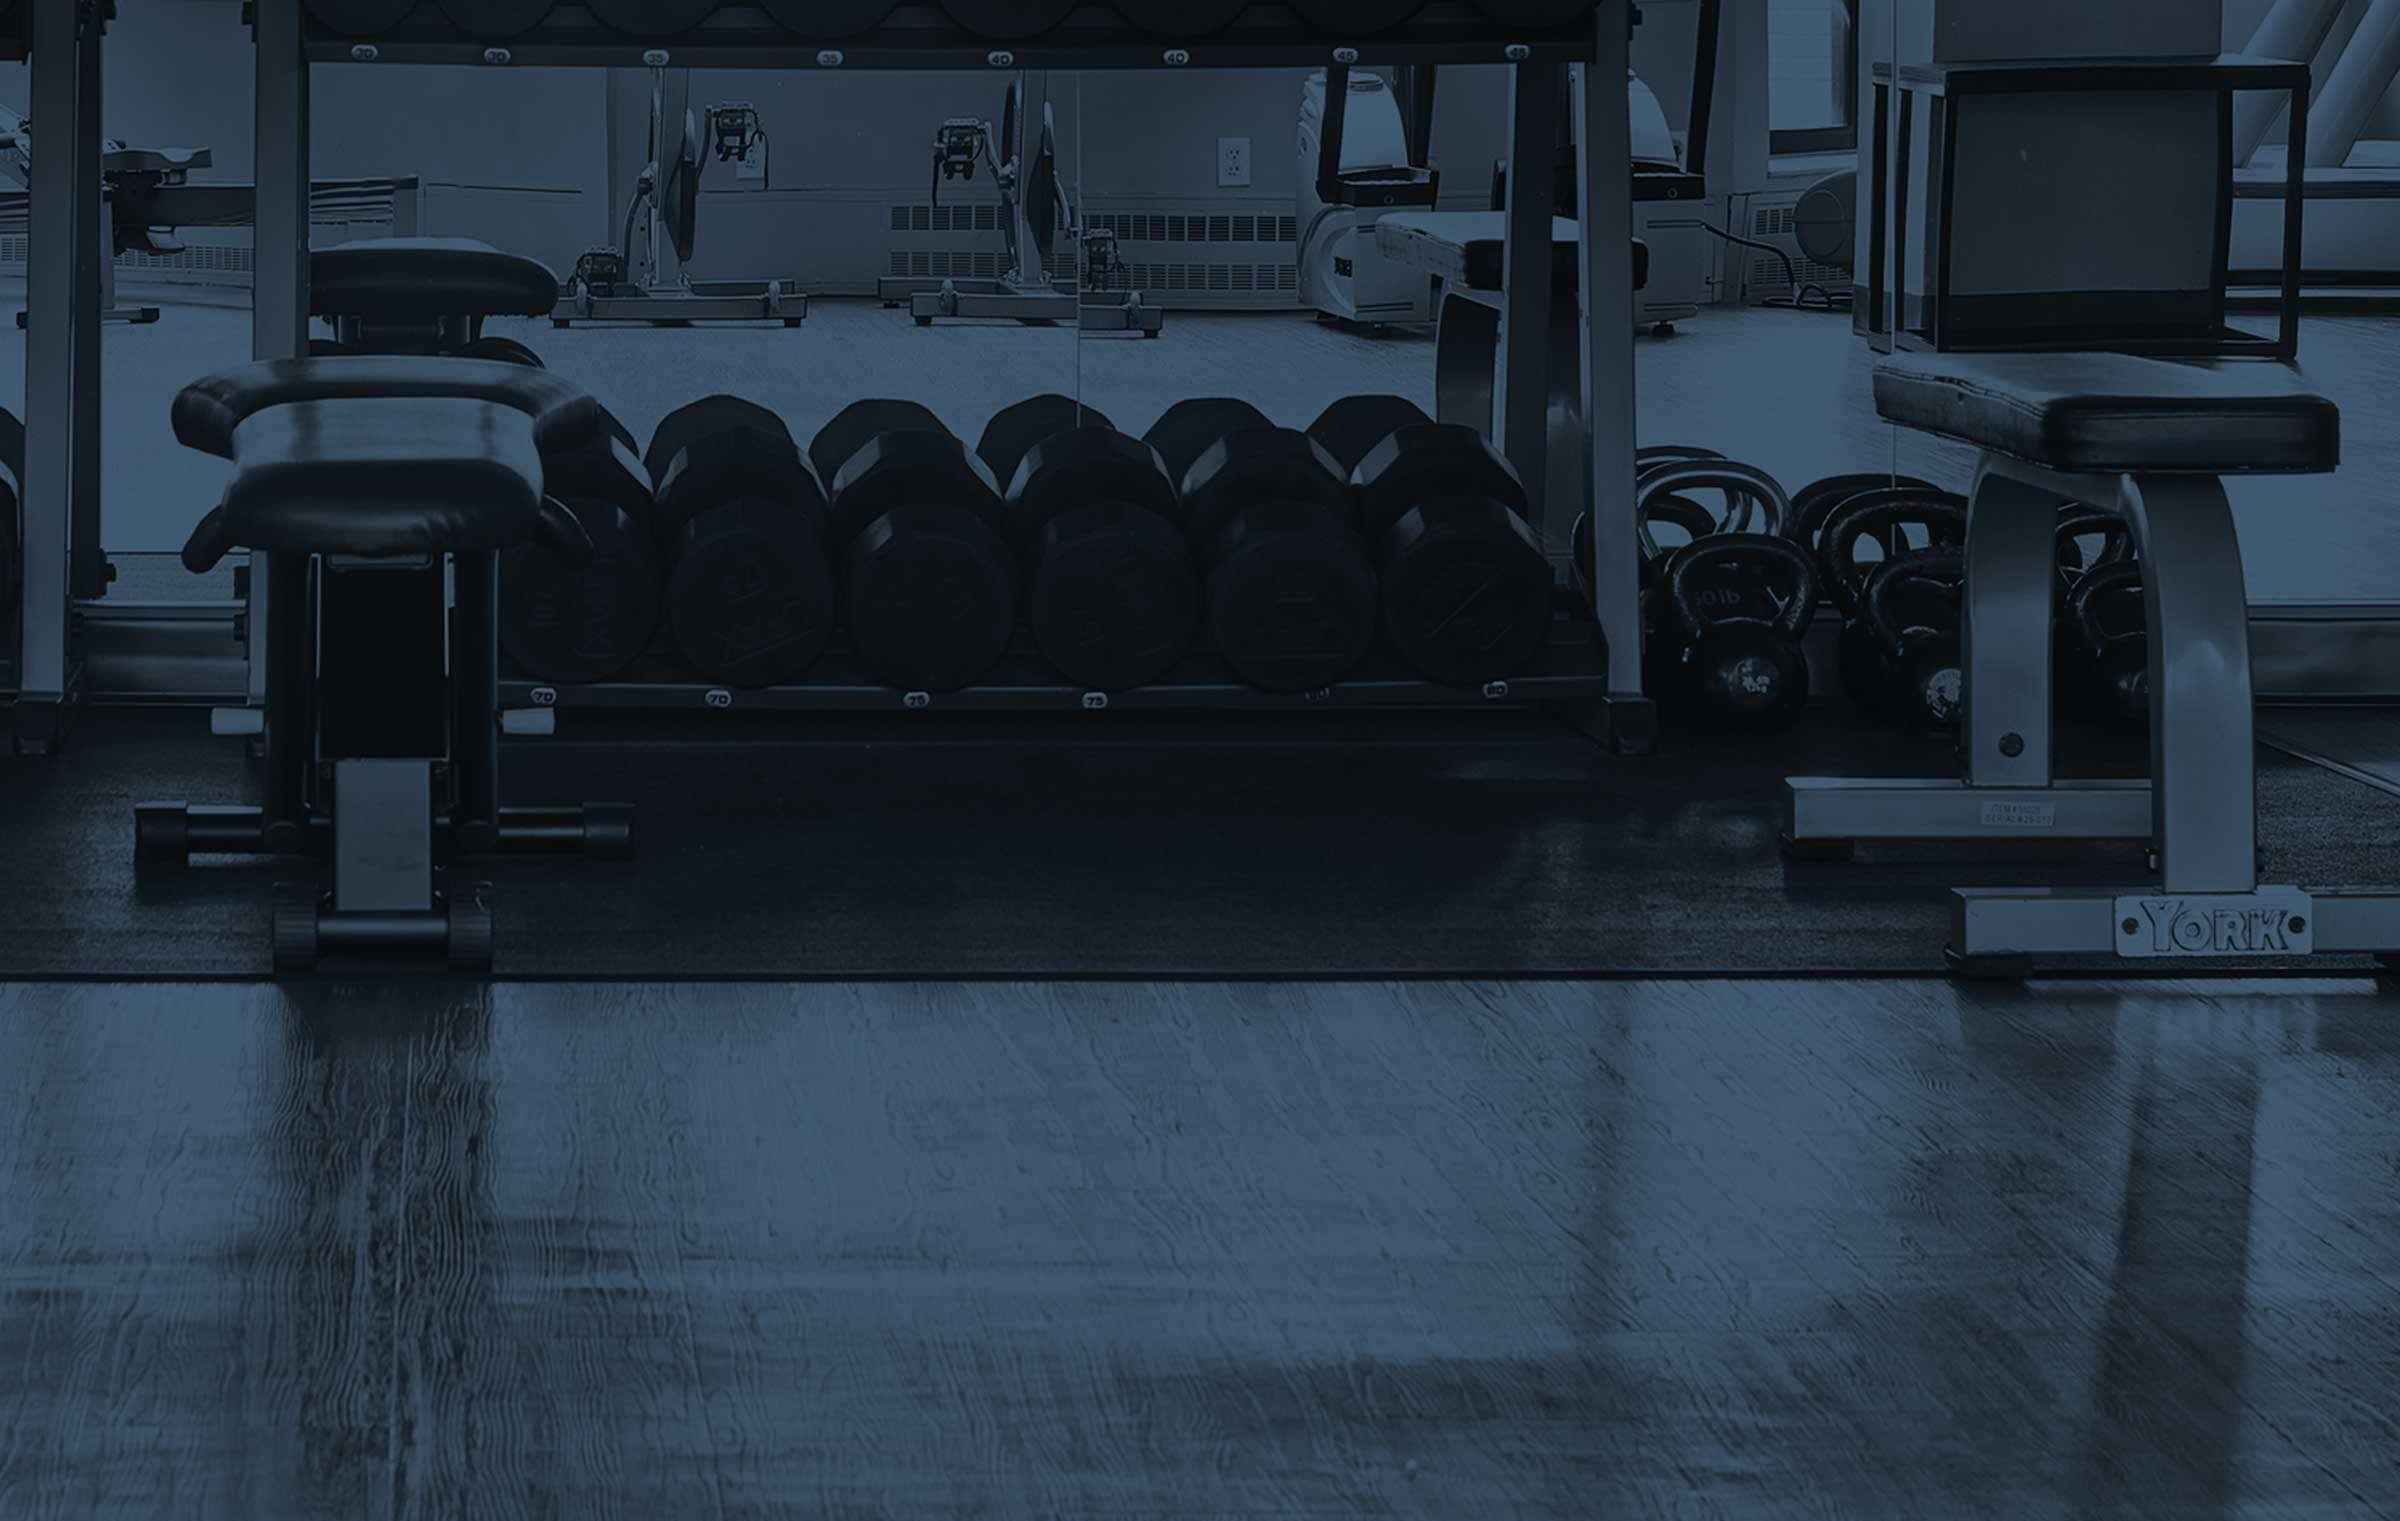
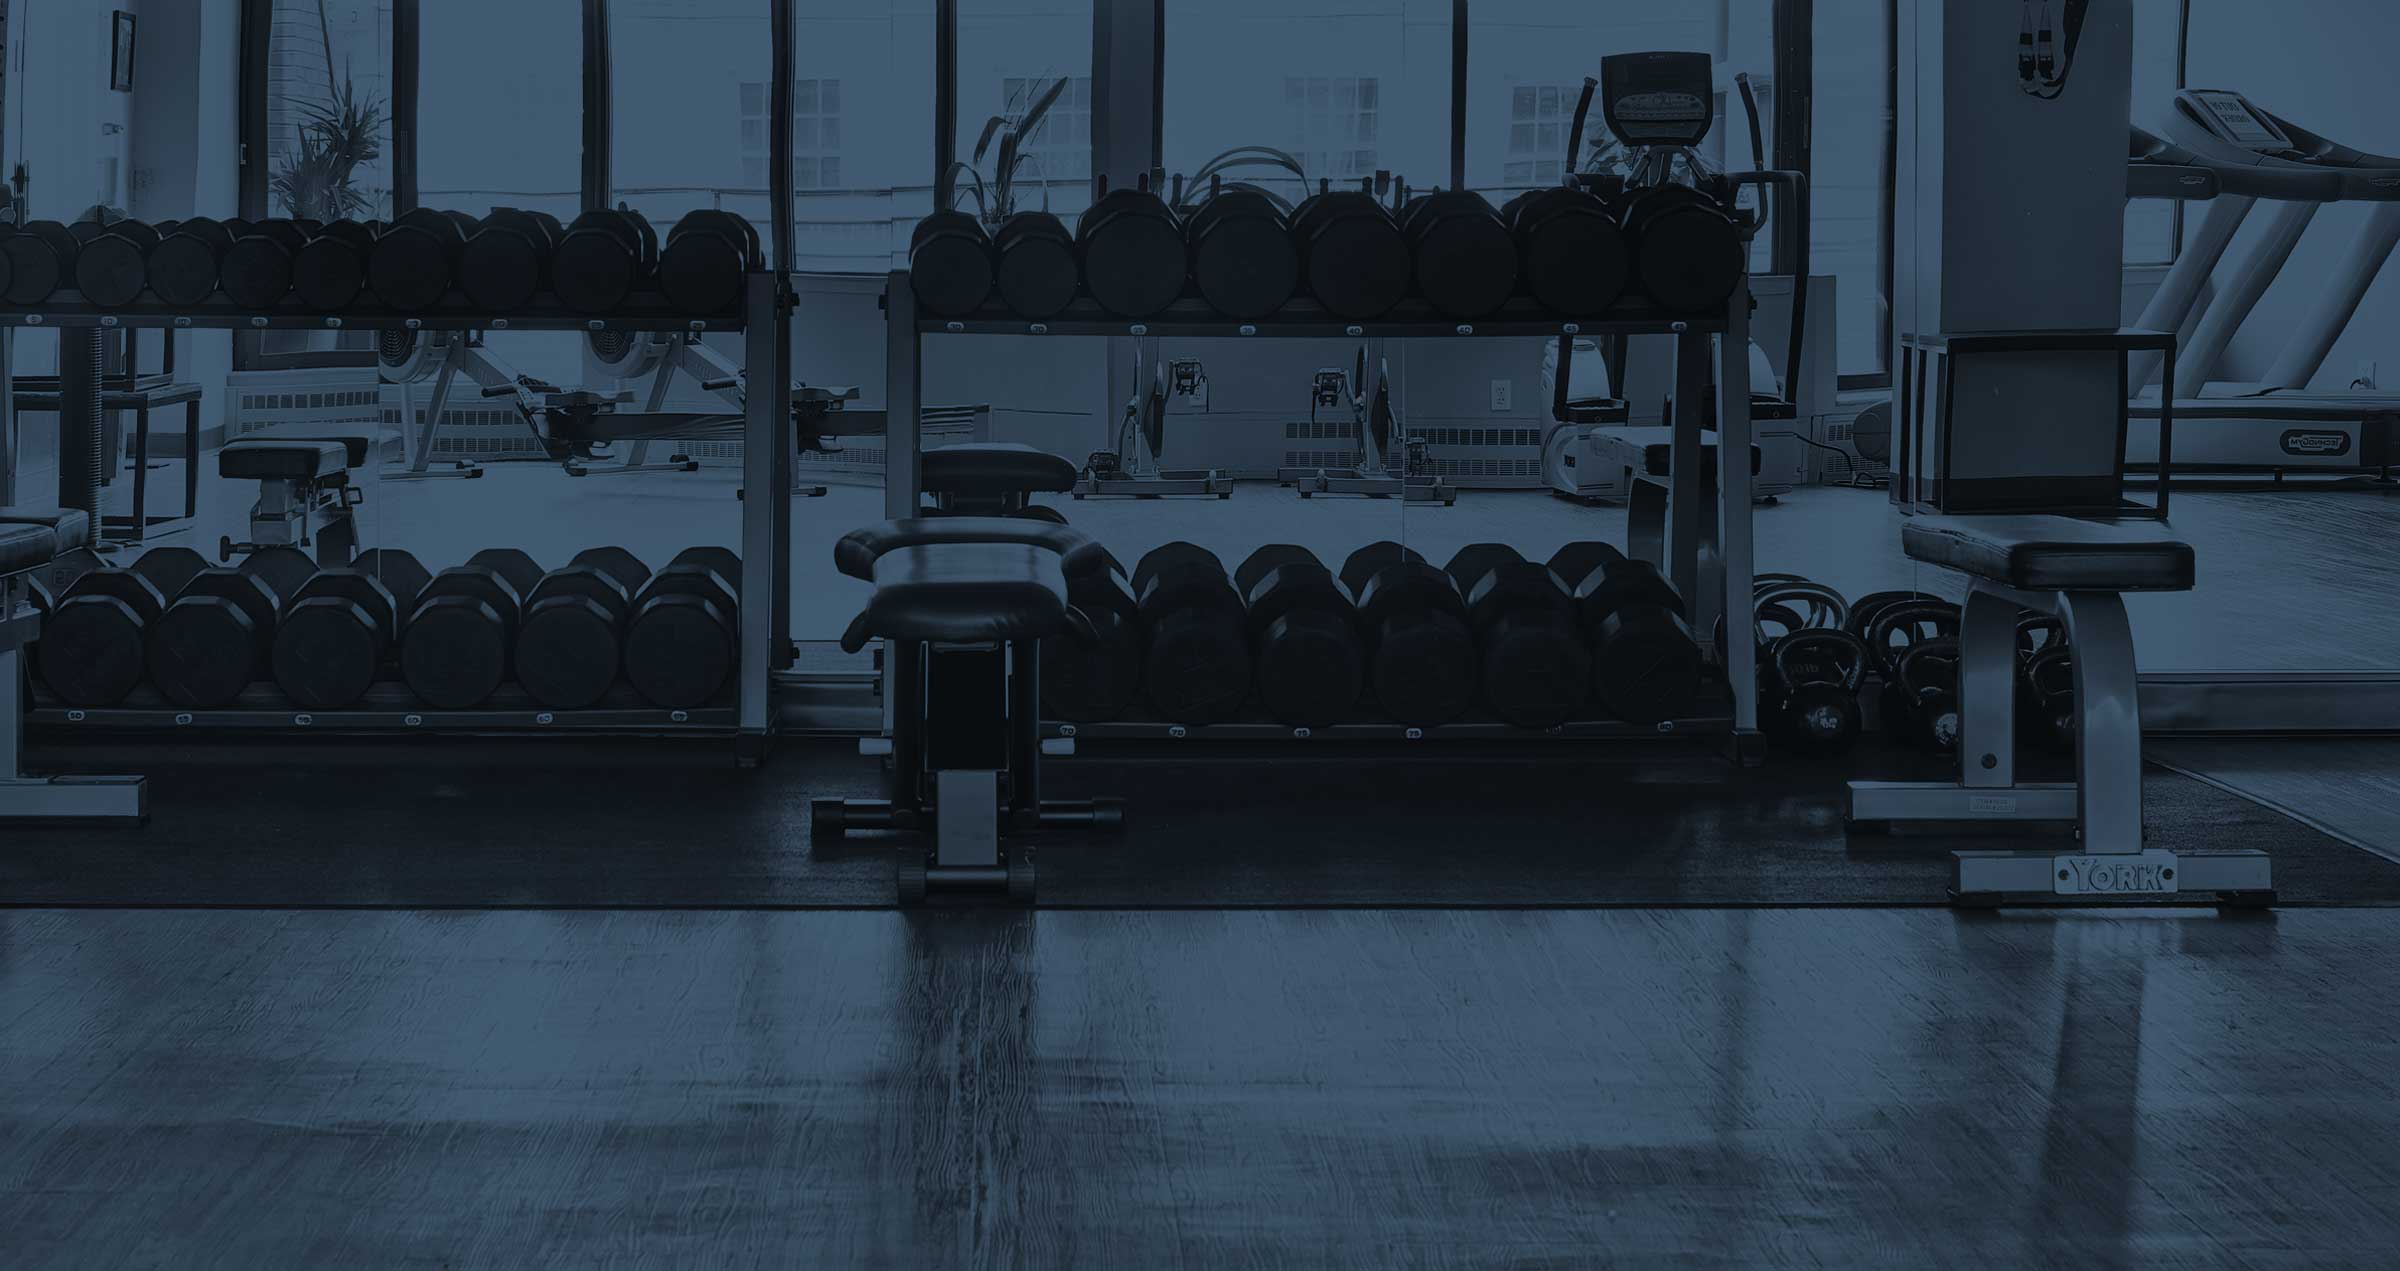
home image

diff --git a/assets/css/main.css b/assets/css/main.css
@@ -138,8 +138,8 @@ body.gallery #header {
   background-attachment: fixed;
 }
 body.home #header {
-  background: url(../images/home-bg.jpg) no-repeat bottom;
-  background-size: 100%;
+  background: url(../images/home-bg.jpg) no-repeat top;
+  background-size: cover;
   background-attachment: fixed;
 }
 body.home #header .logo {
